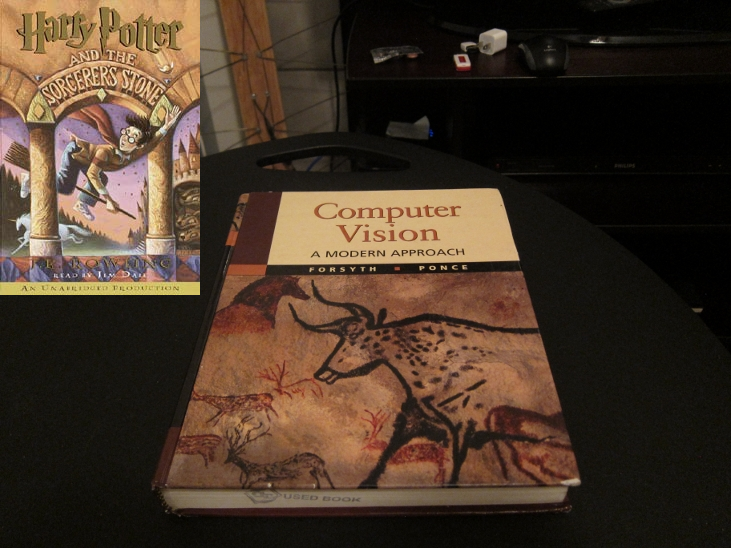
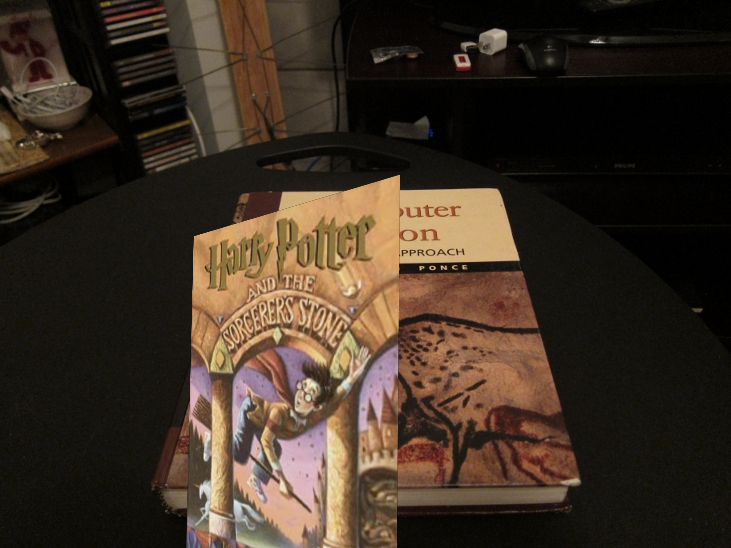
Q2.2.4 Improved but still bugged

Changed region(s): [[0.0, 0.0, 0.5718, 1.0]]

diff --git a/HW1/python/planarH.py b/HW1/python/planarH.py
@@ -20,7 +20,7 @@ def computeH(x1, x2):
         A[2*i+1] = [0, 0, 0, -X, -Y, -1, y*X, y*Y, y]
 
     # Solve using SVD
-    U, S, V = np.linalg.svd(A)
+    _, _, V = np.linalg.svd(A)
 
     # Homography
     H2to1 = V[-1].reshape(3, 3)
@@ -41,23 +41,28 @@ def computeH_norm(x1, x2):
     x2_shifted = x2 - x2_centroid
 
     # TODO: Normalize the points so that the largest distance from the origin is equal to sqrt(2)
-    x1_scaleMax = np.sqrt(2) / np.max(np.linalg.norm(x1_shifted, axis=1))
-    x2_scaleMax = np.sqrt(2) / np.max(np.linalg.norm(x2_shifted, axis=1))
-
+    max_dist1 = np.max(np.sqrt(np.sum(x1_shifted**2, axis=1)))
+    max_dist2 = np.max(np.sqrt(np.sum(x2_shifted**2, axis=1)))
+    x1_scale = np.sqrt(2) / max_dist1
+    x2_scale = np.sqrt(2) / max_dist2
 
     # TODO: Similarity transform 1
-    T1 = np.array([[x1_scaleMax, 0, -x1_scaleMax*x1_centroid[0]], [0, x1_scaleMax, -x1_scaleMax*x1_centroid[1]], [0, 0, 1]])
+    T1 = np.array([[x1_scale, 0, -x1_scale*x1_centroid[0]], [0, x1_scale, -x1_scale*x1_centroid[1]], [0, 0, 1]])
     
     # TODO: Similarity transform 2
-    T2 = np.array([[x2_scaleMax, 0, -x2_scaleMax*x2_centroid[0]], [0, x2_scaleMax, -x2_scaleMax*x2_centroid[1]], [0, 0, 1]])
+    T2 = np.array([[x2_scale, 0, -x2_scale*x2_centroid[0]], [0, x2_scale, -x2_scale*x2_centroid[1]], [0, 0, 1]])
 
     # TODO: Compute homography
     # Normalize points
     x1_normalized = (T1 @ np.hstack((x1, np.ones((x1.shape[0], 1)))).T).T
     x2_normalized = (T2 @ np.hstack((x2, np.ones((x2.shape[0], 1)))).T).T
 
+    # Remove the third dimension
+    x1_normalized = x1_normalized[:, :2] / x1_normalized[:, 2][:, np.newaxis]
+    x2_normalized = x2_normalized[:, :2] / x2_normalized[:, 2][:, np.newaxis]
+
     # Compute homography between normalized points
-    H2to1_normalized = computeH(x1_normalized[:, :2], x2_normalized[:, :2])
+    H2to1_normalized = computeH(x1_normalized, x2_normalized)
 
     # TODO: Denormalization
     H2to1 = np.linalg.inv(T1) @ H2to1_normalized @ T2
@@ -77,9 +82,7 @@ def computeH_ransac(locs1, locs2, opts):
     # Initialize variables
     N = locs1.shape[0]
     bestH2to1 = np.eye(3)
-    inliers = np.zeros(N)
-
-    # Initialize inlier count
+    bestinliers = np.zeros(N)
     max_inliers = 0
 
     for i in range(max_iters):
@@ -89,28 +92,33 @@ def computeH_ransac(locs1, locs2, opts):
         x2_sample = locs2[idx]
 
         # Compute homography
-        H2to1 = computeH(x1_sample, x2_sample)
+        H2to1 = computeH_norm(x1_sample, x2_sample)
 
         # Transform points 
-        locs1_homogeneous = np.hstack((locs1, np.ones((N, 1))))
-        locs2_project = (H2to1 @ locs1_homogeneous.T).T
-        locs2_project /= locs2_project[:, [2]] # normalization
+        locs2_homogeneous = np.hstack((locs2, np.ones((N, 1))))
+        locs2_project = (H2to1 @ locs2_homogeneous.T).T
 
-        # Compute the error and find inliers
-        d = np.linalg.norm(locs2_project[:, :2] - locs2, axis=1)
-        inliers = d < inlier_tol
-        num_inliers = np.sum(inliers)
+        # Normalize points
+        locs2_project = locs2_project[:, :2] / locs2_project[:, 2][:, np.newaxis]
+
+        # Compute distance between points
+        dist = np.linalg.norm(locs1 - locs2_project, axis=1)
+
+        # Count inliers
+        inliers = dist < inlier_tol
+        inlier_count = np.sum(inliers)
 
         # Update best homography
-        if num_inliers > max_inliers:
-            max_inliers = num_inliers
+        if inlier_count > max_inliers:
+            max_inliers = inlier_count
             bestH2to1 = H2to1
-        
-    # Compute inliers
-    if np.sum(inliers) > 4:
-        bestH2to1 = computeH_norm(locs1[inliers], locs2[inliers])
+            bestinliers = inliers
 
-    return bestH2to1, inliers
+        # Print inliers information
+        if i % 100 == 0:  # Print every 100 iterations
+            print(f"Iteration {i}: {inlier_count} inliers")
+
+    return bestH2to1, bestinliers
 
 
 
@@ -127,7 +135,7 @@ def compositeH(H2to1, template, img):
     H2to1_invert = np.linalg.inv(H2to1)
 
     # TODO: Create mask of same size as template
-    mask = np.ones((template.shape[0], template.shape[1]), dtype=np.uint8)
+    mask = np.ones((template.shape[0], template.shape[1]), dtype=np.uint8) * 255
 
     # TODO: Warp mask by appropriate homography
     warped_mask = cv2.warpPerspective(mask, H2to1_invert, (img.shape[1], img.shape[0]))
@@ -137,8 +145,10 @@ def compositeH(H2to1, template, img):
 
     # TODO: Use mask to combine the warped template and the image
     composite_img = img.copy()
-    composite_img[warped_mask == 1] = warped_template[warped_mask == 1]
+    for i in range(3):
+        composite_img[:, :, i] = warped_mask / 255 * warped_template[:, :, i] + (1 - warped_mask / 255) * img[:, :, i]
     
+
     return composite_img
 
 

diff --git a/HW1/python/HarryPotterize.py b/HW1/python/HarryPotterize.py
@@ -15,12 +15,15 @@ def warpImage(opts):
     cv_cover = cv2.imread('../data/cv_cover.jpg')
     cv_desk = cv2.imread('../data/cv_desk.png')
     hp_cover = cv2.imread('../data/hp_cover.jpg')
+    # resize hp_cover to cv_cover size
+    hp_cover = cv2.resize(hp_cover, (cv_cover.shape[1], cv_cover.shape[0]))
 
     # Check if images are loaded properly
     if cv_cover is None or cv_desk is None or hp_cover is None:
         print("Error: One or more images could not be loaded. Please check the file paths.")
         return
     
+
     # compute homography
     matches, locs1, locs2 = matchPics(cv_cover, cv_desk, opts)
 
@@ -29,6 +32,8 @@ def warpImage(opts):
         return
     
     bestH2to1, inliers = computeH_ransac(locs1[matches[:, 0]], locs2[matches[:, 1]], opts)
+    print(f"Best Homography Matrix:\n{bestH2to1}")
+    print(f"Number of inliers: {np.sum(inliers)}")
 
     # warp images
     composite_img = compositeH(bestH2to1, hp_cover, cv_desk)
@@ -46,5 +51,4 @@ if __name__ == "__main__":
 
     opts = get_opts()
     warpImage(opts)
-
 
